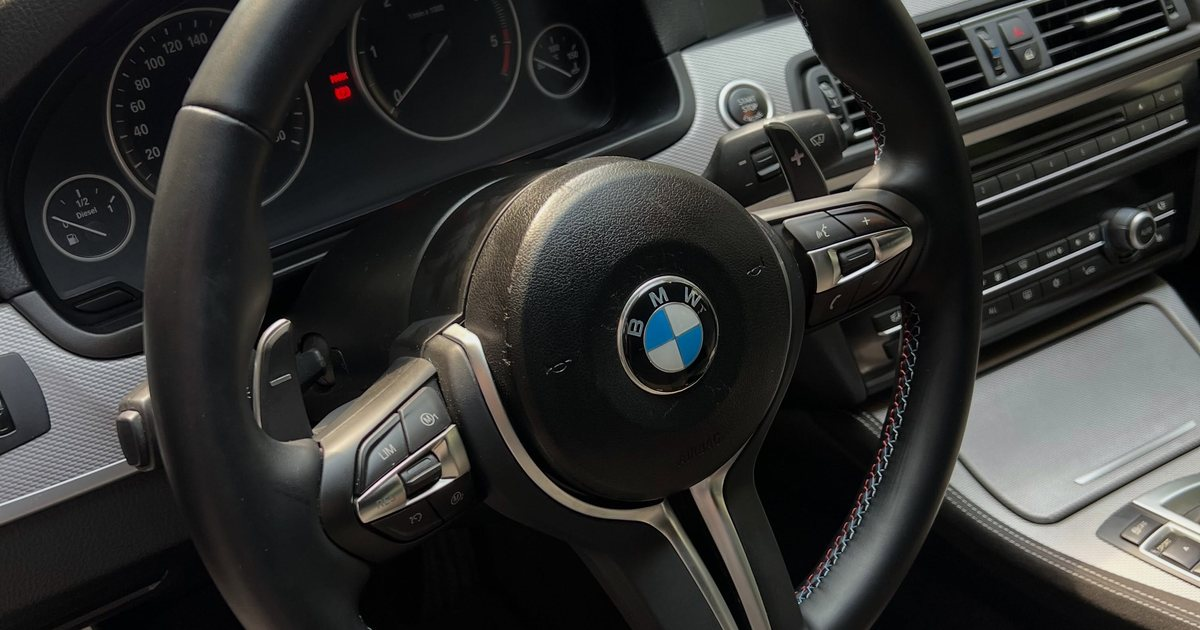
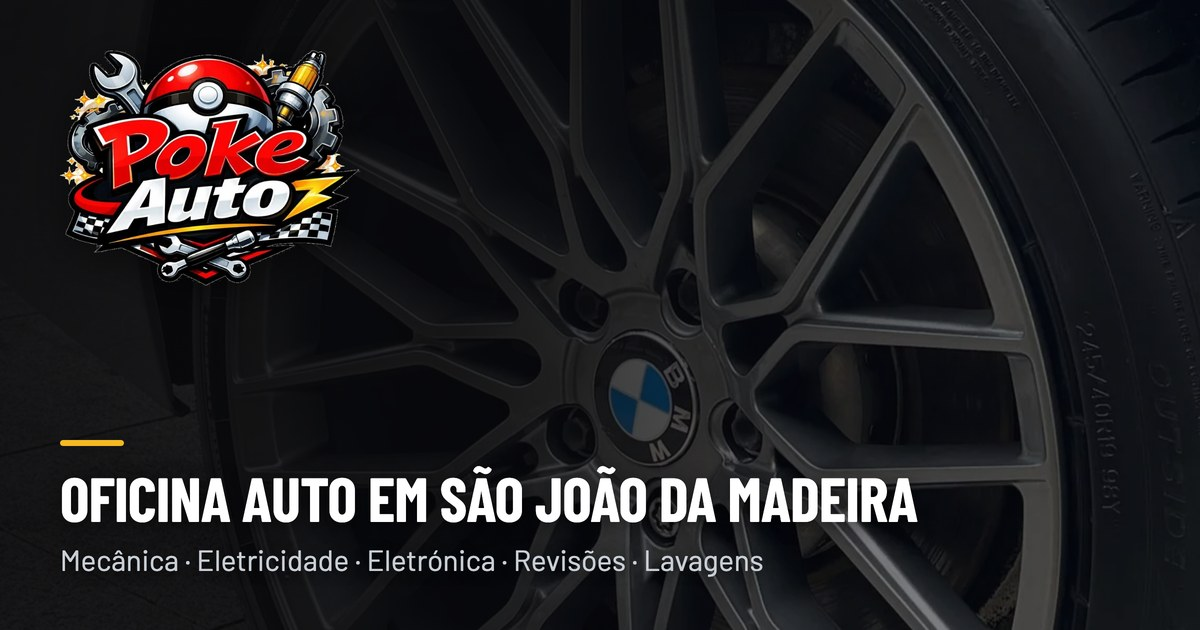
Repõe o cartão de partilha, agora gerado a partir dos dados
Quando troquei a fotografia do topo, regenerei o assets/img/og.jpg como um
simples recorte dessa fotografia. Perdeu-se o que tornava a pré-visualização
útil: sem o logótipo e sem o nome da terra, um recorte de uma jante não diz a
ninguém de quem é o link que acabou de receber no WhatsApp.

Volta o cartão desenhado — fotografia escurecida, logótipo, filete dourado,
título e a linha de serviços — mas em vez de ser um ficheiro fixo passa a ser
gerado pelo .github/scripts/og.py a partir do data/site.json. Assim não fica a
mentir no dia em que o cliente mudar o título no backoffice.

Como é feito: escreve-se um HTML temporário, serve-se a pasta num servidor
local e fotografa-se em Chrome headless a 1200x630 com deviceScaleFactor 2.
Usa as fontes auto-alojadas do site (Barlow Condensed) e as cores da marca, em
vez de as reinventar com uma biblioteca de imagem — que foi o que deu a
tipografia genérica da primeira versão.

- Campos novos no backoffice: título, linha de serviços e fotografia de fundo.
- Regenera-se só quando o conteúdo muda (assinatura do HTML), senão o
  repositório crescia com um JPEG diferente a cada publicação.
- O endereço leva ?v=<assinatura>. O WhatsApp e o Facebook guardam a
  pré-visualização pelo URL: sem isso, quem já partilhou o link continuava a
  ver o cartão antigo durante semanas. O JSON-LD aponta para o mesmo endereço.
- Se a geração falhar, não trava a publicação: fica a imagem anterior. O site
[…]

diff --git a/index.html b/index.html
@@ -17,7 +17,7 @@
   <meta property="og:site_name" content="PokeAuto" />
   <meta property="og:title" content="Oficina auto em São João da Madeira | PokeAuto" />
   <meta property="og:description" content="Oficina multimarca em São João da Madeira: mecânica, eletricidade, eletrónica automóvel, revisão completa, lavagens e higienização do ar condicionado. Rua da Liberdade, 53." />
-  <meta property="og:image" content="https://renatovalente5.github.io/PokeAuto/assets/img/og.jpg" />
+  <meta property="og:image" content="https://renatovalente5.github.io/PokeAuto/assets/img/og.jpg?v=a6eccc4d62ec" />
   <meta property="og:image:width" content="1200" />
   <meta property="og:image:height" content="630" />
   <meta property="og:image:alt" content="PokeAuto — oficina auto em São João da Madeira" />
@@ -51,7 +51,7 @@
       "description": "Oficina automóvel multimarca em São João da Madeira: mecânica, eletricidade, eletrónica automóvel, revisão completa, lavagens e higienização do ar condicionado.",
       "url": "https://renatovalente5.github.io/PokeAuto/",
       "logo": "https://renatovalente5.github.io/PokeAuto/assets/img/logo-760.webp",
-      "image": "https://renatovalente5.github.io/PokeAuto/assets/img/og.jpg",
+      "image": "https://renatovalente5.github.io/PokeAuto/assets/img/og.jpg?v=a6eccc4d62ec",
       "telephone": "+351922022364",
       "priceRange": "€€",
       "address": {

diff --git a/.github/scripts/og.py b/.github/scripts/og.py
@@ -1,0 +1,246 @@
+# -*- coding: utf-8 -*-
+"""
+Cartão de partilha (assets/img/og.jpg) — 1200x630
+==================================================
+É a imagem que aparece quando alguém partilha o site no WhatsApp, no Facebook
+ou no Messenger. Durante um tempo foi só um recorte da fotografia do topo, e
+perdeu-se o que a tornava útil: sem o logótipo e sem o nome da terra, um
+recorte de uma jante não diz a ninguém de quem é o link.
+
+O cartão é DESENHADO, não recortado: fotografia de fundo escurecida, logótipo,
+filete dourado, título e a linha de serviços. E é gerado a partir do
+data/site.json, para não ficar a mentir no dia em que o cliente mudar o título
+no backoffice.
+
+Como é feito: escreve-se um HTML temporário, serve-se a pasta do projecto num
+servidor local e fotografa-se em Chrome headless a 1200x630. Assim usa as
+fontes auto-alojadas e as cores da marca — em vez de as reinventar com uma
+biblioteca de imagem, que foi o que deu a tipografia genérica da primeira versão.
+
+Corre depois do webp.py e antes do prerender.py.
+
+Uso:  python3 .github/scripts/og.py [--verificar]
+"""
+import hashlib
+import json
+import os
+import socket
+import socketserver
+import sys
+import threading
+import http.server
+
+AQUI = os.path.dirname(os.path.abspath(__file__))
+RAIZ = os.path.dirname(os.path.dirname(AQUI))
+sys.path.insert(0, AQUI)
+
+DESTINO = os.path.join(RAIZ, 'assets', 'img', 'og.jpg')
+TEMP_HTML = os.path.join(RAIZ, '_og.html')
+LARGURA, ALTURA = 1200, 630
+
+PADRAO = {
+    'titulo': 'Oficina auto em São João da Madeira',
+    'subtitulo': 'Mecânica · Eletricidade · Eletrónica · Revisões · Lavagens',
+    'foto': 'faixa-jante',
+}
+
+
+def esc(t):
+    return (str(t).replace('&', '&amp;').replace('<', '&lt;')
+            .replace('>', '&gt;').replace('"', '&quot;'))
+
+
+def ler_site():
+    with open(os.path.join(RAIZ, 'data', 'site.json'), encoding='utf-8') as f:
+        return json.load(f)
+
+
+def escolher_foto(nome):
+    """Maior variante disponível daquele nome base, ou a jante como recurso."""
+    pasta = os.path.join(RAIZ, 'assets', 'img', 'trabalhos')
+    base = os.path.splitext(os.path.basename(str(nome or '')))[0]
+    import re
+    base = re.sub(r'-\d{2,4}$', '', base) or PADRAO['foto']
+    cands = []
+    for f in os.listdir(pasta):
+        m = re.match(r'^' + re.escape(base) + r'-(\d+)\.webp$', f)
+        if m:
+            cands.append((int(m.group(1)), 'assets/img/trabalhos/' + f))
+    if not cands:
+        return 'assets/img/trabalhos/faixa-jante-1800.webp'
+    return max(cands)[1]
+
+
+def montar_html(og):
+    foto = escolher_foto(og.get('foto'))
+    return """<!doctype html>
+<html lang="pt-PT"><head><meta charset="utf-8">
+<link rel="stylesheet" href="assets/css/fonts.css">
+<style>
+  /* Sem o base.css de propósito: só as fontes. O base.css tem uma regra
+     global para as imagens, pensada para a página, que aqui só cria
+     surpresas. */
+  :root{--dourado:#F5B921;--prata:#C9CFD6;--preto:#0B0B0D;
+    --f-display:'Barlow Condensed','Arial Narrow',sans-serif;
+    --f-corpo:'Barlow',system-ui,sans-serif;}
+  *{margin:0;padding:0;box-sizing:border-box;}
+  html,body{background:var(--preto);}
+  .og{position:relative;width:%(w)dpx;height:%(h)dpx;overflow:hidden;
+      font-family:var(--f-corpo);}
+  .og__foto{position:absolute;inset:0;width:100%%;height:100%%;object-fit:cover;
+      object-position:50%% 46%%;display:block;}
+  /* Véu forte do lado esquerdo, onde assenta o texto, e leve à direita, para a
+     fotografia continuar a ler-se. */
+  .og__veu{position:absolute;inset:0;
+      background:linear-gradient(100deg, rgba(9,9,11,.94) 0%%, rgba(9,9,11,.82) 40%%,
+                 rgba(9,9,11,.46) 68%%, rgba(9,9,11,.30) 100%%);}
+  .og__corpo{position:absolute;inset:0;display:flex;flex-direction:column;
+      /* flex-start e não o stretch por omissão: numa coluna, o stretch estica
+         o logótipo a toda a largura e deforma-o. */
+      align-items:flex-start;justify-content:space-between;
+      padding:50px 60px 52px;}
+  .og__logo{width:300px;height:auto;display:block;
+      filter:drop-shadow(0 6px 22px rgba(0,0,0,.55));}
+  .og__filete{width:64px;height:6px;border-radius:3px;background:var(--dourado);
+      margin-bottom:20px;}
+  .og__tit{font-family:var(--f-display);font-weight:700;text-transform:uppercase;
+      font-size:%(ft)dpx;line-height:1;letter-spacing:-.01em;color:#fff;
+      text-shadow:0 3px 18px rgba(0,0,0,.55);}
+  .og__sub{margin-top:14px;font-size:29px;line-height:1.25;color:var(--prata);
+      text-shadow:0 2px 12px rgba(0,0,0,.55);}
+</style></head><body>
+<div class="og">
+  <img class="og__foto" src="%(foto)s" alt="">
+  <div class="og__veu"></div>
+  <div class="og__corpo">
+    <img class="og__logo" src="assets/img/logo-760.webp" alt="">
+    <div>
+      <div class="og__filete"></div>
+      <h1 class="og__tit">%(tit)s</h1>
+      <p class="og__sub">%(sub)s</p>
+    </div>
+  </div>
+</div>
+</body></html>""" % {
+        'w': LARGURA, 'h': ALTURA, 'foto': esc(foto),
+        'tit': esc(og.get('titulo') or PADRAO['titulo']),
+        'sub': esc(og.get('subtitulo') or PADRAO['subtitulo']),
+        # títulos longos encolhem, para nunca transbordarem do cartão
+        'ft': 62 if len(str(og.get('titulo') or PADRAO['titulo'])) <= 38 else 52,
+    }
+
+
+def porta_livre():
+    s = socket.socket()
+    s.bind(('127.0.0.1', 0))
+    p = s.getsockname()[1]
+    s.close()
+    return p
+
+
+def gerar(html):
+    from cdp import Chrome
+    import base64
+
+    class Silencioso(http.server.SimpleHTTPRequestHandler):
+        def log_message(self, *a):
+            pass
+
+    porta = porta_livre()
+    srv = socketserver.TCPServer(
+        ('127.0.0.1', porta), lambda *a, **k: Silencioso(*a, directory=RAIZ, **k))
+    threading.Thread(target=srv.serve_forever, daemon=True).start()
+    with open(TEMP_HTML, 'w', encoding='utf-8') as f:
+        f.write(html)
+    c = Chrome(porta=porta_livre())
+    try:
+        c.cmd('Emulation.setDeviceMetricsOverride', width=LARGURA, height=ALTURA,
+              deviceScaleFactor=2, mobile=False)
+        c.abrir('http://127.0.0.1:%d/_og.html' % porta, espera=3.0)
+        # as fontes têm de estar carregadas antes da fotografia
+        c.js("document.fonts && document.fonts.ready")
+        import time
+        time.sleep(1.6)
+        r = c.cmd('Page.captureScreenshot', format='png')
+        bruto = base64.b64decode(r['data'])
+    finally:
+        c.fechar()
+        srv.shutdown()
+        if os.path.exists(TEMP_HTML):
+            os.remove(TEMP_HTML)
+
+    from PIL import Image
+    import io
+    im = Image.open(io.BytesIO(bruto)).convert('RGB')
+    if im.size != (LARGURA, ALTURA):
+        im = im.resize((LARGURA, ALTURA), Image.LANCZOS)
+    im.save(DESTINO, 'JPEG', quality=88, optimize=True, progressive=True)
+    return os.path.getsize(DESTINO)
+
+
+def marcar_urls(marca):
+    """Actualiza ?v= nos metadados de partilha das quatro páginas."""
+    import glob
+    import re
+    alvos = [os.path.join(RAIZ, 'index.html')] + sorted(glob.glob(os.path.join(RAIZ, 'legal', '*.html')))
+    mudados = 0
+    for p in alvos:
+        with open(p, encoding='utf-8') as f:
+            s = f.read()
+        novo = re.sub(r'(assets/img/og\.jpg)(\?v=[0-9a-f]+)?', r'\1?v=' + marca, s)
+        if novo != s:
+            with open(p, 'w', encoding='utf-8') as f:
+                f.write(novo)
+            mudados += 1
+    if mudados:
+        print('og: %d páginas com o novo endereço da imagem' % mudados)
+
+
+def main():
+    verificar = '--verificar' in sys.argv
+    site = ler_site()
+    og = site.get('og') or {}
+    html = montar_html(og)
+
+    # A assinatura muda quando muda o conteúdo do cartão. Sem isto, o workflow
+    # regenerava o JPEG a cada publicação e o repositório crescia com um
+    # ficheiro binário diferente de cada vez, sem nada ter mudado.
+    marca = hashlib.sha1(html.encode('utf-8')).hexdigest()[:12]
+    reg = os.path.join(RAIZ, 'assets', 'img', '.og.json')
+    try:
+        with open(reg, encoding='utf-8') as f:
+            anterior = json.load(f).get('assinatura')
+    except (IOError, ValueError):
+        anterior = None
+
+    if anterior == marca and os.path.exists(DESTINO):
+        # O ficheiro está bem, mas as páginas podem não estar: uma página nova
+        # nasce sem o ?v=. Marcar é barato e mantém tudo coerente.
+        marcar_urls(marca)
+        print('og: cartão de partilha já em dia.')
+        return 0
+    if verificar:
+        print('og: cartão de partilha desactualizado.')
+        return 1
+
+    try:
+        tam = gerar(html)
+    except Exception as e:
+        # Não travar a publicação por causa da imagem de partilha: o site
+        # continua correcto, só a pré-visualização é que fica a anterior.
+        print('og: não foi possível gerar (%s). Fica a imagem anterior.' % e)
+        return 0
+    with open(reg, 'w', encoding='utf-8') as f:
+        json.dump({'assinatura': marca}, f, ensure_ascii=False, indent=1)
+        f.write('\n')
+    # O WhatsApp e o Facebook guardam a pré-visualização pelo URL. Sem mudar o
+    # URL, quem já partilhou o link continuava a ver o cartão antigo durante
+    # semanas. A versão vai no endereço, não no nome do ficheiro, para o
+    # ficheiro em si continuar a ser assets/img/og.jpg.
+    marcar_urls(marca)
+    print('og: cartão de partilha gerado (%.0f KB)' % (tam / 1024.0))
+    return 0
+
+
+if __name__ == '__main__':
+    sys.exit(main())

diff --git a/.github/scripts/prerender.py b/.github/scripts/prerender.py
@@ -257,6 +257,21 @@ def aplicar_legal(html, site):
     return html, len(re.findall(r'id="bloco-legal"', html))
 
 
+def versao_og():
+    """?v= do cartão de partilha, para o JSON-LD apontar para o mesmo ficheiro
+    que os metadados do Open Graph.
+
+    O `json` é importado aqui dentro porque este módulo não o importa no topo —
+    o `except` engolia o NameError e devolvia vazio em silêncio."""
+    import json as _j
+    try:
+        with open(os.path.join(RAIZ, 'assets', 'img', '.og.json'), encoding='utf-8') as f:
+            m = _j.load(f).get('assinatura')
+        return ('?v=' + m) if m else ''
+    except (IOError, ValueError, KeyError):
+        return ''
+
+
 def escapar(t):
     return (t.replace('&', '&amp;').replace('<', '&lt;').replace('>', '&gt;'))
 
@@ -575,7 +590,8 @@ def construir_jsonld(raiz):
                         'e higienização do ar condicionado.'),
         'url': SITE + '/',
         'logo': SITE + '/assets/img/logo-760.webp',
-        'image': SITE + '/assets/img/og.jpg',
+        # mesma versão que o og:image, para o Google não guardar duas
+        'image': SITE + '/assets/img/og.jpg' + versao_og(),
         'telephone': '+' + (c.get('telefone_intl') or ''),
         'priceRange': '€€',
         'address': {
